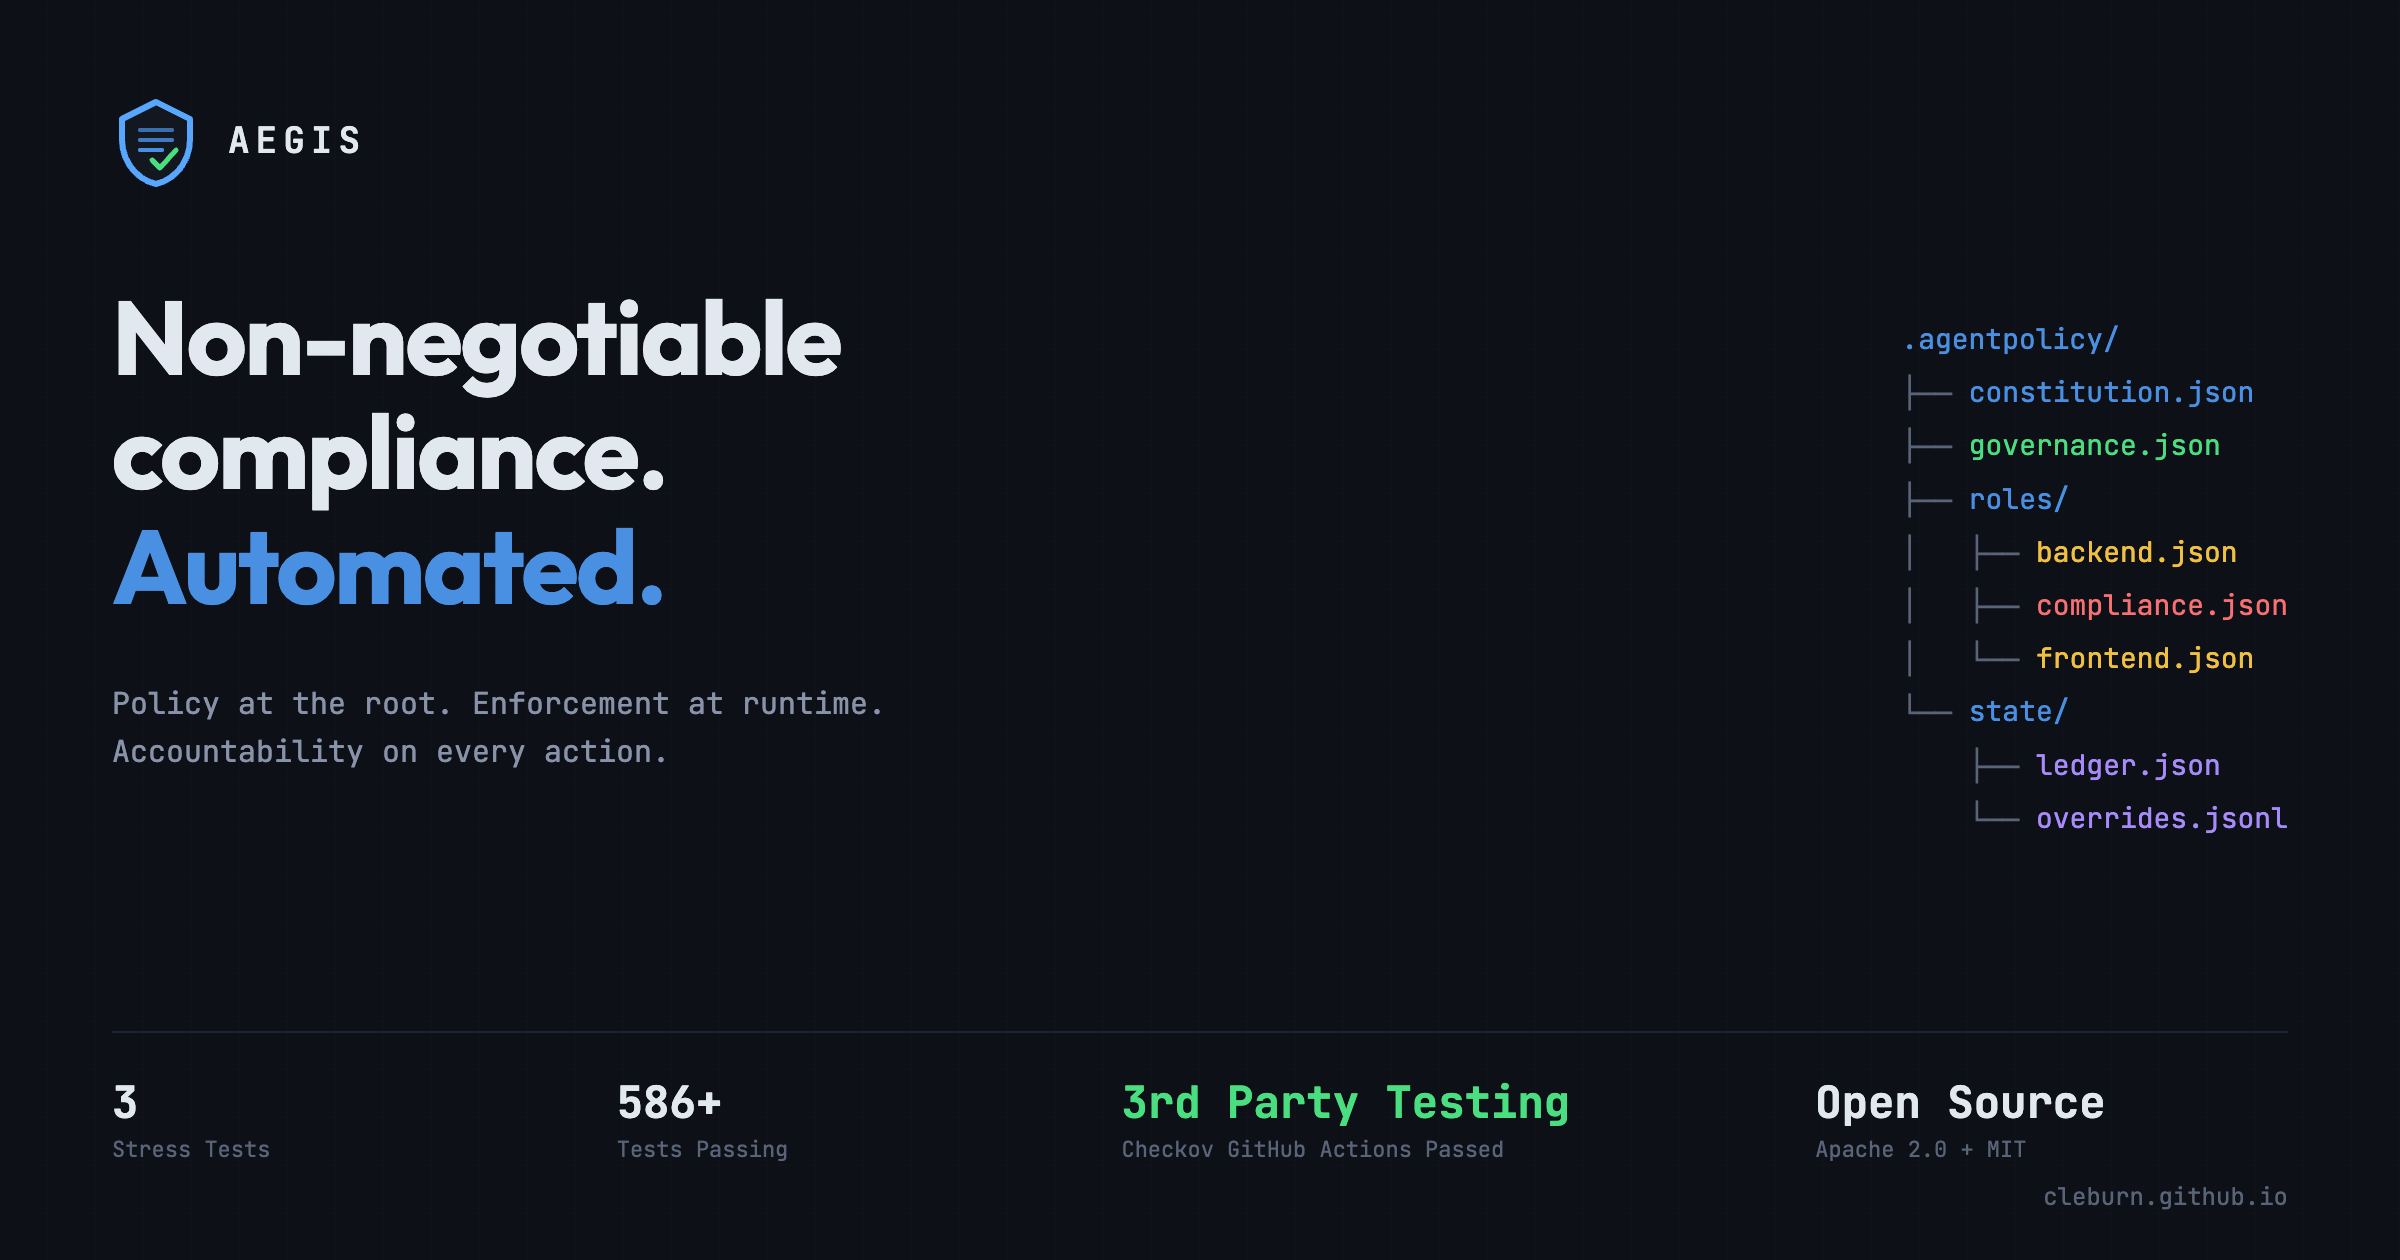
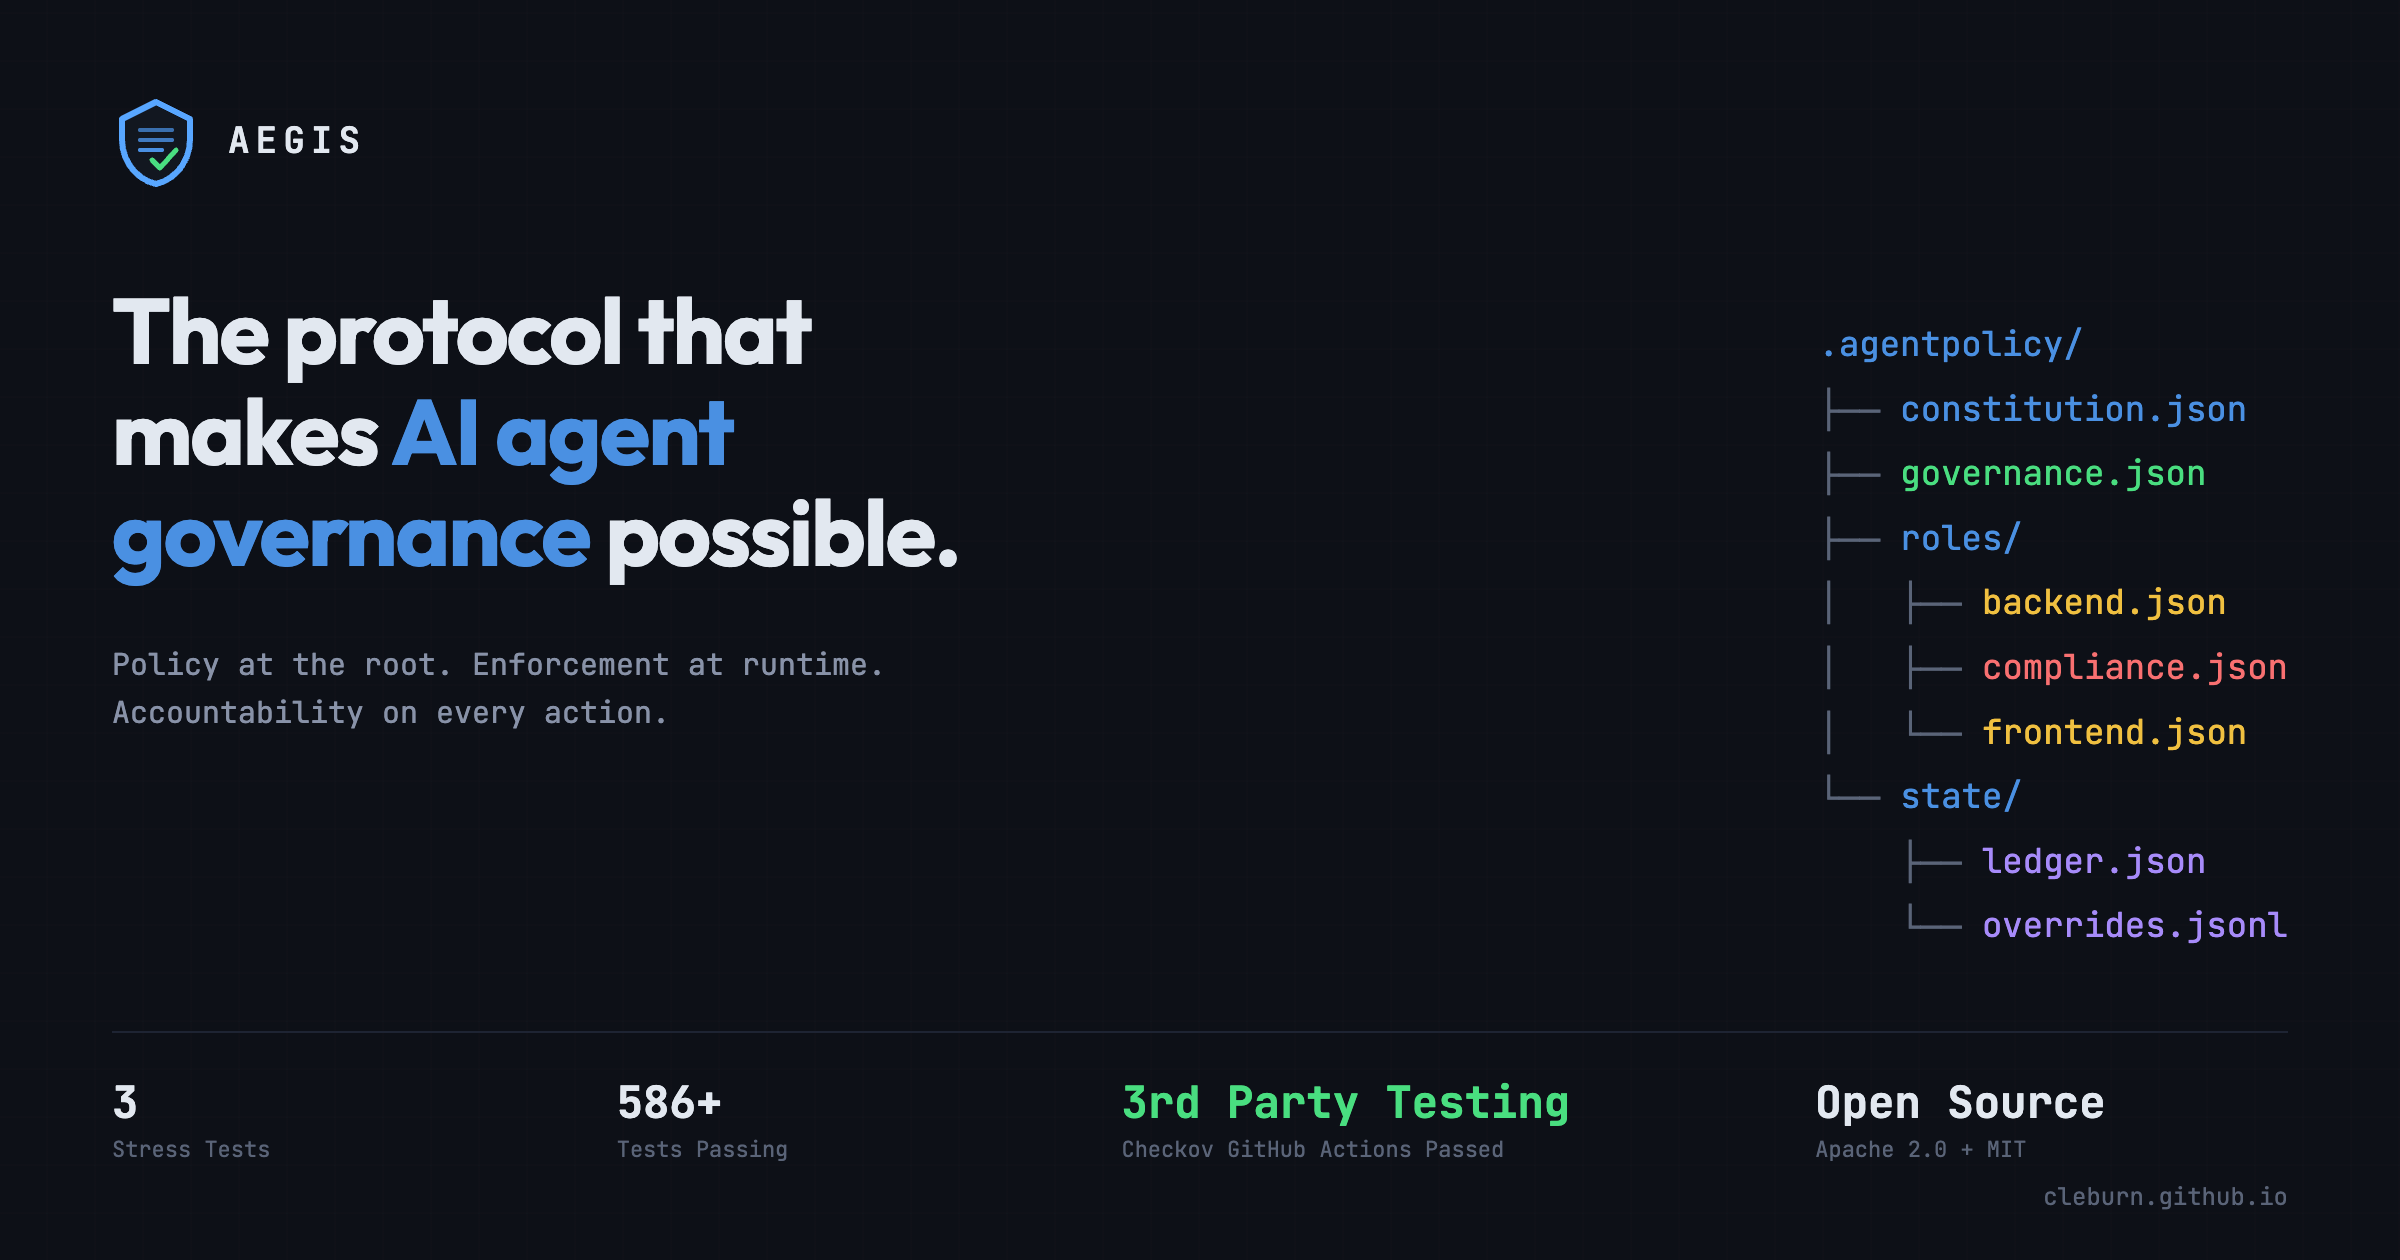
Reframing Hero line to focus on protocol

diff --git a/index.html b/index.html
@@ -1514,42 +1514,39 @@
   </nav>
 
   <!-- Hero -->
-  <section class="hero">
-    <div class="container">
-      <div class="hero-badges fade-up">
-        <span class="hero-badge">
-          <span class="dot"></span>
-          Listed in the MCP Registry
-        </span>
-        <a href="https://www.npmjs.com/package/aegis-cli" class="hero-badge" target="_blank" style="color: #4ade80;">
-          npm: aegis-cli
-        </a>
+    <section class="hero">
+      <div class="container">
+        <div class="hero-badges fade-up">
+          <span class="hero-badge">
+            <code style="color: #4a90e2; background: transparent; padding: 0;">.agentpolicy/</code>
+            &nbsp;&mdash;&nbsp; Apache 2.0, agent-agnostic
+          </span>
+        </div>
+        <h1 class="fade-up">
+          The protocol that makes<br><span class="gradient">AI agent governance</span> possible.
+        </h1>
+        <div class="fade-up" style="text-align: center; margin: 24px 0 28px;">
+          <svg viewBox="0 0 28 30" fill="none" xmlns="http://www.w3.org/2000/svg" width="64" height="69">
+            <path d="M14 2L3 7.5V14C3 20.35 7.7 26.25 14 28C20.3 26.25 25 20.35 25 14V7.5L14 2Z" stroke="#4a90e2" stroke-width="1.5" fill="none"/>
+            <line x1="9" y1="11" x2="19" y2="11" stroke="#4a90e2" stroke-width="1.2" opacity="0.5"/>
+            <line x1="9" y1="14.5" x2="19" y2="14.5" stroke="#4a90e2" stroke-width="1.2" opacity="0.7"/>
+            <line x1="9" y1="18" x2="15" y2="18" stroke="#4a90e2" stroke-width="1.2"/>
+            <polyline points="16,19.5 18,21.5 22,16.5" stroke="#4ade80" stroke-width="1.5" fill="none" stroke-linecap="round" stroke-linejoin="round"/>
+          </svg>
+        </div>
+        <p class="hero-lead fade-up">
+          Every runtime enforcement layer, every permission system, every audit mechanism needs a shared contract to reference. <code style="color: #4a90e2;">.agentpolicy/</code> is that contract. An open-source, schema-validated protocol that scales from personal projects to regulated enterprise.
+        </p>
+        <p class="hero-sub fade-up">
+          One standard. Any agent. Any stack. Policy at the root. Enforcement at runtime. Accountability on every action.
+        </p>
+        <div class="hero-install fade-up" onclick="copyInstall(this)">
+          <span class="prefix">$</span> npm install -g aegis-cli
+          <span class="copy-hint">click to copy</span>
+          <span class="copied">copied!</span>
+        </div>
       </div>
-      <h1 class="fade-up">
-        Non-negotiable compliance.<br><span class="gradient">Automated.</span>
-      </h1>
-      <div class="fade-up" style="text-align: center; margin: 24px 0 28px;">
-        <svg viewBox="0 0 28 30" fill="none" xmlns="http://www.w3.org/2000/svg" width="64" height="69">
-          <path d="M14 2L3 7.5V14C3 20.35 7.7 26.25 14 28C20.3 26.25 25 20.35 25 14V7.5L14 2Z" stroke="#4a90e2" stroke-width="1.5" fill="none"/>
-          <line x1="9" y1="11" x2="19" y2="11" stroke="#4a90e2" stroke-width="1.2" opacity="0.5"/>
-          <line x1="9" y1="14.5" x2="19" y2="14.5" stroke="#4a90e2" stroke-width="1.2" opacity="0.7"/>
-          <line x1="9" y1="18" x2="15" y2="18" stroke="#4a90e2" stroke-width="1.2"/>
-          <polyline points="16,19.5 18,21.5 22,16.5" stroke="#4ade80" stroke-width="1.5" fill="none" stroke-linecap="round" stroke-linejoin="round"/>
-        </svg>
-      </div>
-      <p class="hero-lead fade-up">
-        Aegis is the governance layer that tells every AI agent exactly what it can touch, what's off-limits, and how to coordinate &mdash; before it writes a single line of code.
-      </p>
-      <p class="hero-sub fade-up">
-        Policy at the root. Enforcement at runtime. Accountability on every action. Open source. Agent-agnostic.
-      </p>
-      <div class="hero-install fade-up" onclick="copyInstall(this)">
-        <span class="prefix">$</span> npm install -g aegis-cli
-        <span class="copy-hint">click to copy</span>
-        <span class="copied">copied!</span>
-      </div>
-    </div>
-  </section>
+    </section>
 
   <!-- Problem -->
   <section class="problem">

diff --git a/assets/og-card.html b/assets/og-card.html
@@ -63,7 +63,7 @@
 
   h1 {
     font-family: 'Outfit', sans-serif;
-    font-size: 52px;
+    font-size: 46px;
     font-weight: 700;
     line-height: 1.1;
     letter-spacing: -1px;
@@ -87,7 +87,7 @@
   }
 
   .tree {
-    font-size: 14px;
+    font-size: 17px;
     line-height: 1.9;
     color: #5a6478;
   }
@@ -156,7 +156,7 @@
 
   <div class="middle">
     <div class="left">
-      <h1>Non-negotiable<br>compliance.<br><span class="gradient">Automated.</span></h1>
+      <h1>The protocol that<br>makes <span class="gradient">AI agent<br>governance</span> possible.</h1>
       <div class="tagline">Policy at the root. Enforcement at runtime.<br>Accountability on every action.</div>
     </div>
     <div class="right">
